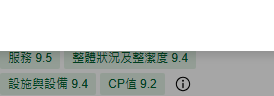
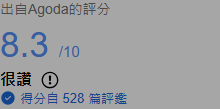
修正二館Agoda連結指向后麗安心並重抓分數

diff --git a/config.js b/config.js
@@ -34,7 +34,7 @@ const HOTELS = [
       },
       agoda: {
         label: 'Agoda',
-        url: 'https://www.agoda.com/zh-tw/wind-natural-parent-child-inn_2/hotel/taichung-tw.html'
+        url: 'https://www.agoda.com/zh-tw/ho-li-safety-parent-child-inn/hotel/taichung-tw.html'
       },
       trip: {
         label: 'Trip.com',
